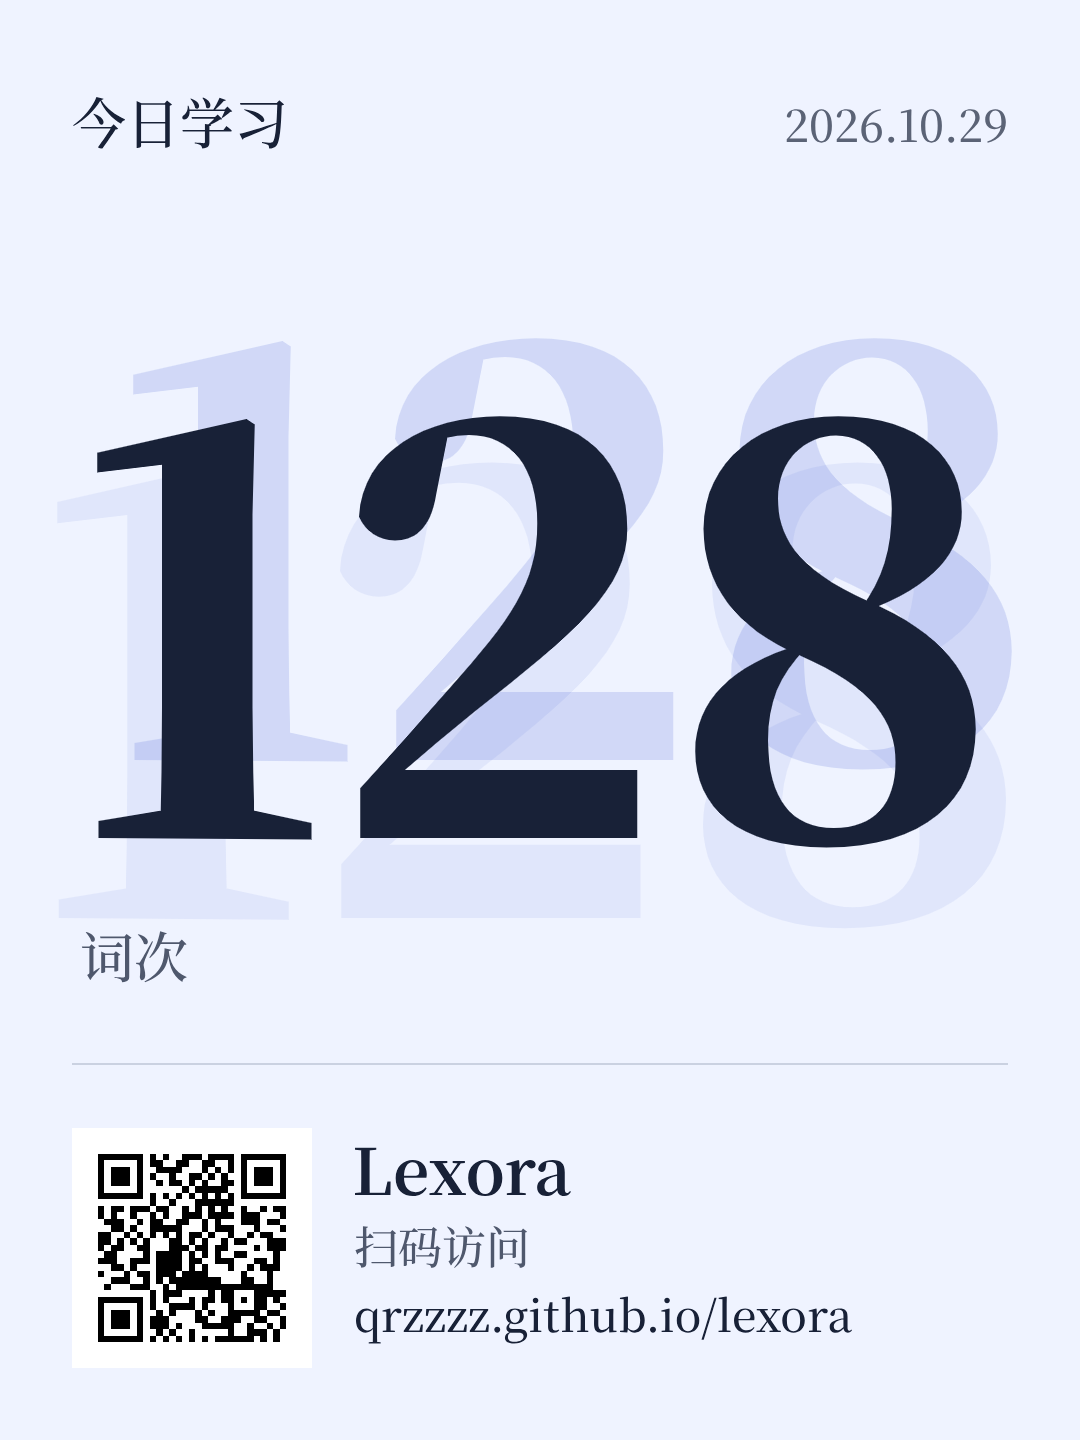
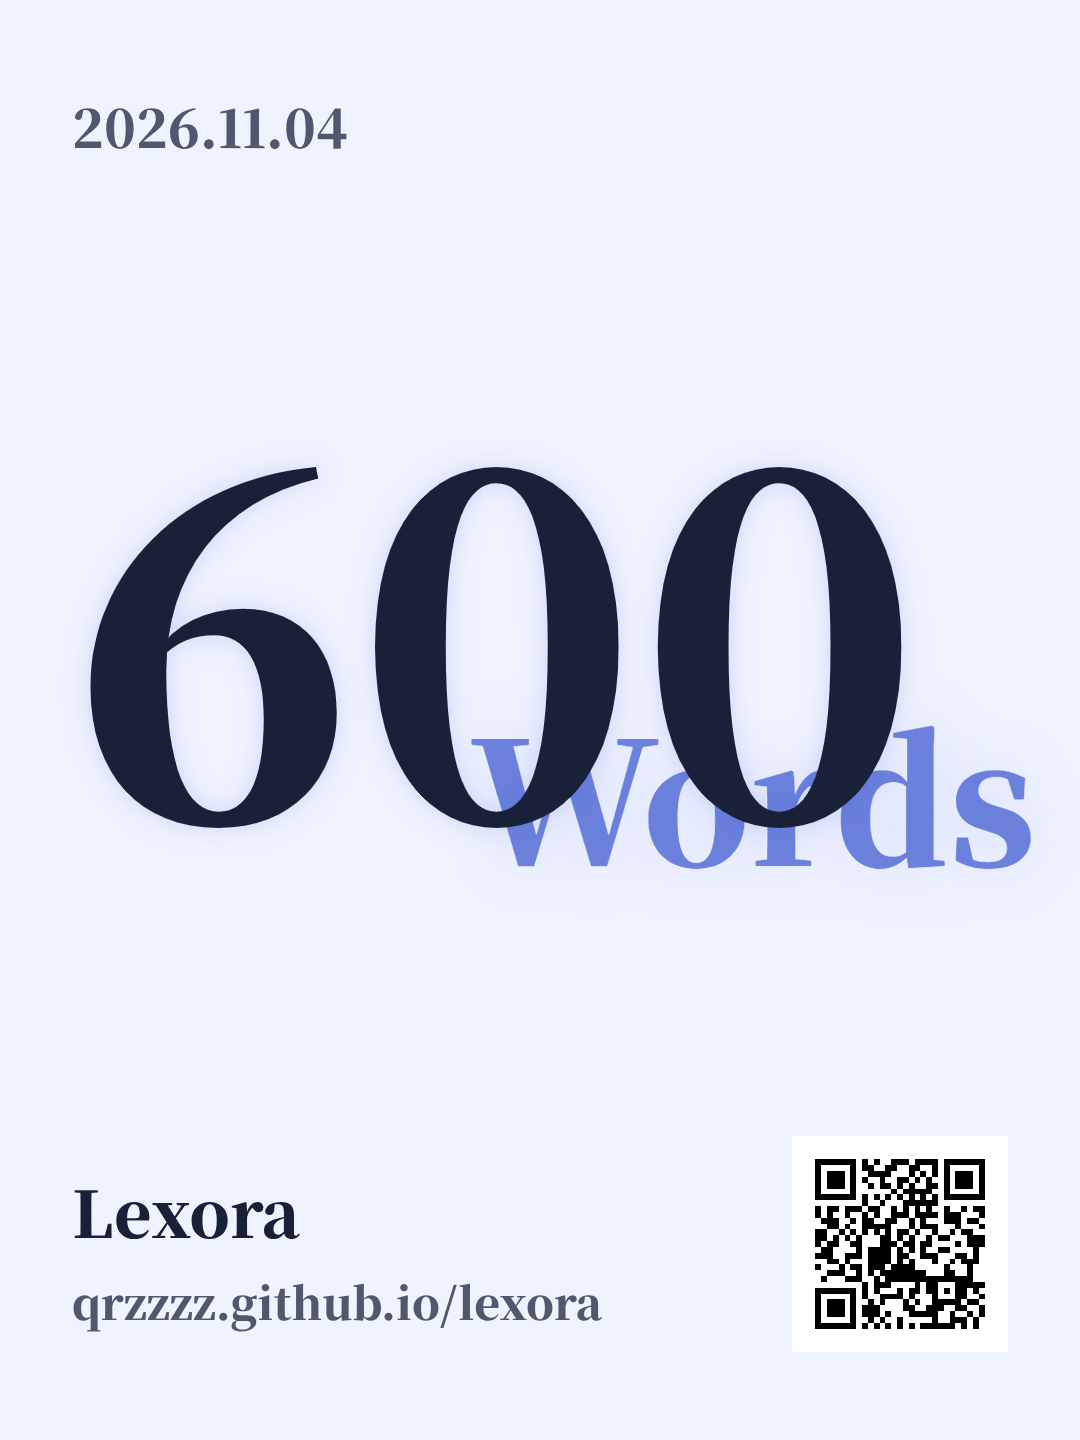
Adopt English overlap poster with dated heading and subtle glow

diff --git a/src/share.js b/src/share.js
@@ -27,38 +27,41 @@ export async function createStudyPoster({
     ctx.fillStyle = color;
     ctx.fillText(value, x, y);
   };
-  text("今日学习", 72, 144, 54);
-  const day = localDay(date).replaceAll("-", ".");
-  font(44);
-  ctx.fillStyle = colors.muted;
-  ctx.textAlign = "right";
-  ctx.fillText(day, 1008, 142);
-  ctx.textAlign = "left";
+  text(localDay(date).replaceAll("-", "."), 72, 148, 52, colors.meaning, 900);
   const value = String(count);
-  let size = 660;
+  let size = 600;
   font(size, 900);
-  while (ctx.measureText(value).width > 936) {
-    size -= 4;
+  while (ctx.measureText(value).width > 850) {
+    size -= 1;
     font(size, 900);
   }
-  // The same count becomes the only graphic: offset translucent impressions.
+  const numberWidth = ctx.measureText(value).width;
+  const wordsX = Math.min(
+    470,
+    72 + numberWidth - Math.max(100, numberWidth * 0.27),
+  );
+  let wordsSize = 170;
+  font(wordsSize, 900);
+  while (ctx.measureText("Words").width > 1040 - wordsX) {
+    wordsSize -= 1;
+    font(wordsSize, 900);
+  }
+  // One word behind one number. A diffuse impression adds depth without ghost digits.
   ctx.save();
-  ctx.globalAlpha = 0.08;
-  text(value, 30, 918, size * 1.08, colors.accent, 900);
+  ctx.globalAlpha = 0.13;
+  ctx.filter = "blur(28px)";
+  text("Words", wordsX, 866, wordsSize, colors.accent, 900);
   ctx.restore();
   ctx.save();
-  ctx.globalAlpha = 0.16;
-  text(value, 108, 760, size, colors.accent, 900);
+  ctx.globalAlpha = 0.68;
+  text("Words", wordsX, 866, wordsSize, colors.accent, 900);
   ctx.restore();
-  text(value, 72, 838, size, colors.ink, 900);
-  text("词次", 80, 978, 54, colors.meaning);
-  ctx.strokeStyle = colors.line;
-  ctx.lineWidth = 2;
-  ctx.beginPath();
-  ctx.moveTo(72, 1064);
-  ctx.lineTo(1008, 1064);
-  ctx.stroke();
-  const box = { x: 72, y: 1128, size: 240 },
+  ctx.save();
+  ctx.shadowColor = colors["control-ink"];
+  ctx.shadowBlur = 24;
+  text(value, 72, 820, size, colors.ink, 900);
+  ctx.restore();
+  const box = { x: 792, y: 1136, size: 216 },
     quiet = 4,
     cell = box.size / (qrRows.length + quiet * 2);
   ctx.fillStyle = colors["qr-paper"];
@@ -73,14 +76,14 @@ export async function createStudyPoster({
           bottom = Math.round(box.y + (y + quiet + 1) * cell);
         ctx.fillRect(left, top, right - left, bottom - top);
       }
-  text("Lexora", 352, 1195, 64, colors.ink, 650);
-  text("扫码访问", 354, 1264, 44, colors.meaning);
+  text("Lexora", 72, 1238, 64, colors.ink, 900);
   text(
     links.app.replace("https://", "").replace(/\/$/, ""),
-    354,
-    1332,
+    72,
+    1320,
     44,
-    colors.ink,
+    colors.meaning,
+    900,
   );
   return new Promise((resolve, reject) =>
     canvas.toBlob(

diff --git a/docs/validation.md b/docs/validation.md
@@ -1,5 +1,9 @@
 # 本地验证记录
 
+## 英文分享海报 B 版
+
+2026-11-04：采用右下叠压构图，Words 位于数字后层并向右错开，全部文字使用最大字重，日期使用生成时的本地日期；主体加入轻微光晕，二维码与页脚不加滤镜。检查浅深色 600、浅色 0 与深色 99999 的 PNG，浅深色二维码独立解码通过；以替身剪贴板验证真实分享按钮，未覆盖系统剪贴板。48 项测试通过。
+
 ## 局部字重与平滑离场
 
 2026-10-29：48 项测试仍通过。Chromium / Playwright 使用 14 字母的 administration，悬停中心字母约 362、相邻两字母约 735 / 762，其余 11 个字母保持 900；保留局部主题色染色。离场连续采样 139 帧，仅这三个字母恢复，字重单调回到 900、无超调，单词宽度变化为 0。切换单词无残留，系统减少动态效果立即复原，390px 缩放仍保持单行。
